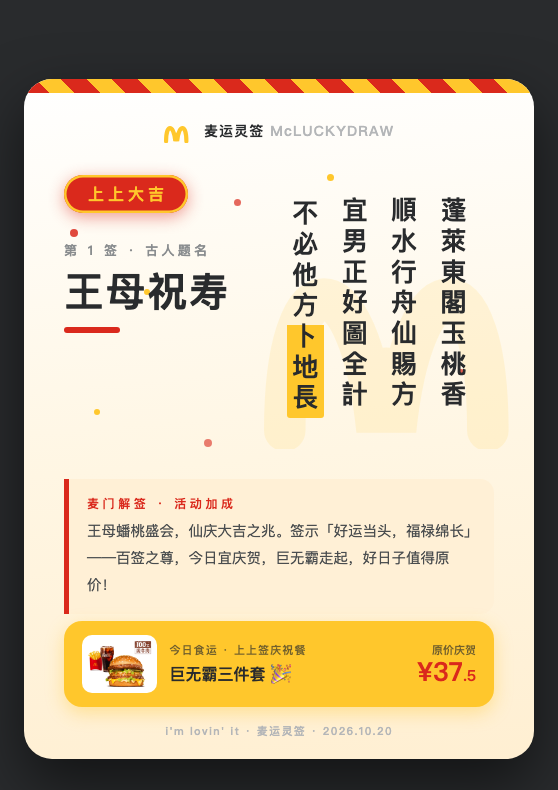
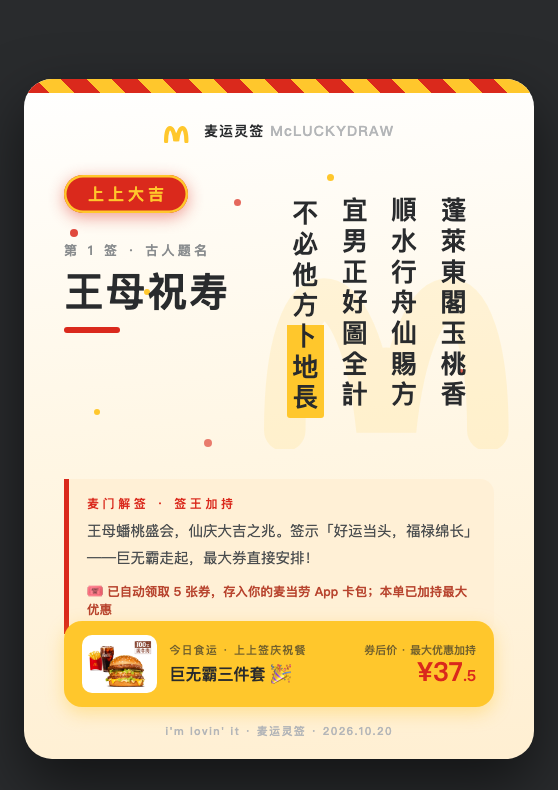
fix: 卡片明示券去向 —— 已领取 N 张券存入麦当劳 App 卡包，角标改券后价

diff --git a/demo/card-001-wangmu.html b/demo/card-001-wangmu.html
@@ -56,7 +56,8 @@
     <!-- 麦门解签面板 -->
     <div style="position:absolute;left:40px;right:40px;top:400px;background:#FFF0D6;border-left:5px solid #DA291C;border-radius:0 14px 14px 0;padding:16px 18px;">
       <div style="font-size:12px;font-weight:800;color:#DA291C;letter-spacing:.3em;margin-bottom:6px;">麦门解签 · 签王加持</div>
-      <div style="font-size:14.5px;line-height:1.85;color:#4A4D4F;">王母蟠桃盛会，仙庆大吉之兆。签示「好运当头，福禄绵长」——百签之尊，今日宜庆贺，巨无霸走起——签王加持，优惠拉满！</div>
+      <div style="font-size:14.5px;line-height:1.85;color:#4A4D4F;">王母蟠桃盛会，仙庆大吉之兆。签示「好运当头，福禄绵长」——巨无霸走起，最大券直接安排！</div>
+      <div style="margin-top:8px;font-size:12.5px;font-weight:700;color:#B8452F;">🎟 已自动领取 5 张券，存入你的麦当劳 App 卡包；本单已加持最大优惠</div>
     </div>
 
     <!-- 今日食运（MCD 黄卡） -->
@@ -69,7 +70,7 @@
         </div>
       </div>
       <div style="text-align:right;">
-        <div style="font-size:11px;font-weight:700;color:#292B2D;opacity:.65;">最大优惠加持</div>
+        <div style="font-size:11px;font-weight:700;color:#292B2D;opacity:.65;">券后价 · 最大优惠加持</div>
         <div style="font-size:26px;color:#DA291C;font-weight:900;line-height:1.1;">¥37<span style="font-size:15px;">.5</span></div>
       </div>
     </div>
